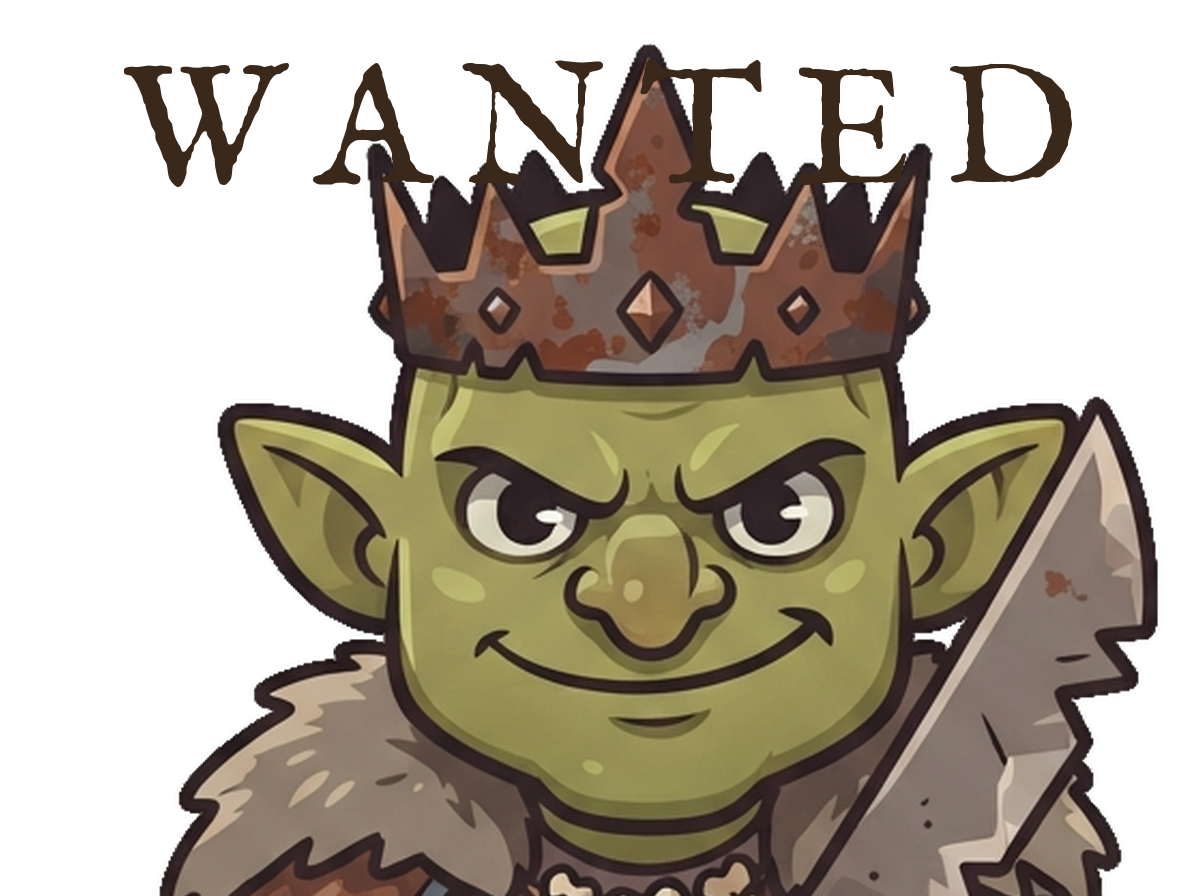
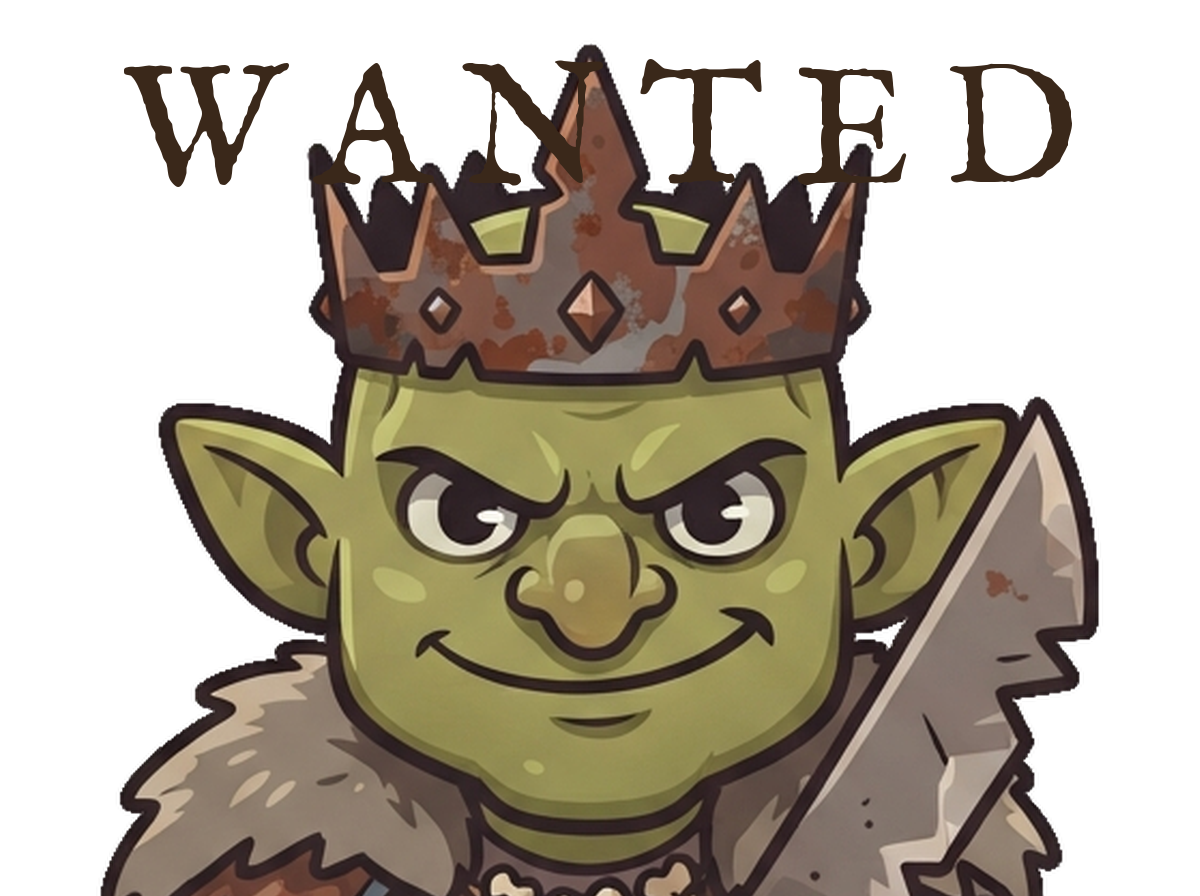
fix(campaign): 手配書の絵を中身の幅で中央に置く
耳の左右で中心を取っていたため、右へ張り出した得物のぶん絵が68px 右へ
寄っていた。中身の左右幅で測り直す。耳の左右は大きさを決める値として残す。

diff --git a/godot/tools/keyvisual/build_wanted_card.py b/godot/tools/keyvisual/build_wanted_card.py
@@ -47,10 +47,14 @@ def draw_text(text: str) -> Image.Image:
 
 
 def build(master: Path, crop: tuple[int, int, int, int], head_w: int, text: str) -> Image.Image:
-    scale = head_w / (EARS[1] - EARS[0])
+    scale = head_w / (EARS[1] - EARS[0])  # 耳の左右は顔の大きさを決めるためだけに使う
     face = Image.open(master).convert("RGBA").crop(crop)
     face = face.resize((round(face.width * scale), round(face.height * scale)), Image.LANCZOS)
-    x = round(W / 2 - (EARS[0] + EARS[1]) / 2 * scale + crop[0] * scale)
+
+    # 横は絵の中身の幅で中心を取る。顔（耳の左右）だけで測ると、右へ張り出した
+    # 得物のぶん絵が右に寄って見えるため。
+    box = face.getbbox()
+    x = round(W / 2 - (box[0] + box[2]) / 2)
 
     img = Image.new("RGBA", (W, H), (0, 0, 0, 0))
     img.alpha_composite(face, (x, 30))  # 冠の先を上端の近くに置き、下端は絵の外へ流す
